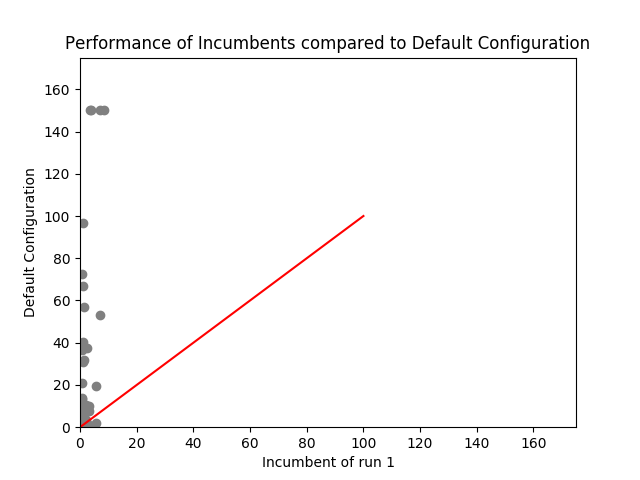
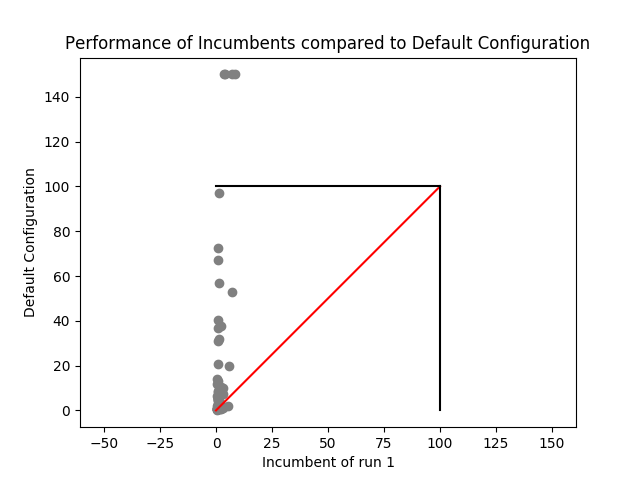
Added plot

diff --git a/Exercise2/lpg_depots/validate/plot_validation_1.py b/Exercise2/lpg_depots/validate/plot_validation_1.py
@@ -31,10 +31,13 @@ def main():
     ax1 = fig1.add_subplot(111)
     ax1.plot(cost_incumbent,cost_default,'ro', color="gray")
     ax1.plot([0,100],[0,100],'k',color="red")
+    ax1.plot([0,100],[100,100],'k',color="black")
+    ax1.plot([100,100],[100,0],'k',color="black")
     plt.ylabel("Default Configuration")
     plt.xlabel("Incumbent of run 1")
     plt.xlim(0,175)
     plt.ylim(0,175)
+    plt.axis('equal')
     plt.title("Performance of Incumbents compared to Default Configuration")
     plt.savefig("perf_inc_vs_def.png")
 if "__main__" == __name__:
